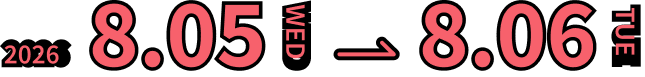
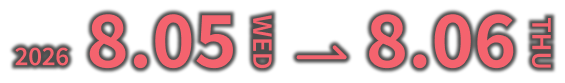
feat: add best paper award committee section and fix hero date typo
- Correct 8/6 day-of-week from TUE to THU on hero date banner (image + alt)
- Register 'Best Paper Award Committee' in chairTypeOrder so it renders between Steering Committees and Paper Chairs
- Render the new committee with feature-variant cards (same layout as Steering Committees)
- Refresh og-preview.png

diff --git a/src/pages/OrganizationPage.tsx b/src/pages/OrganizationPage.tsx
@@ -362,9 +362,13 @@ const OrganizationPage: React.FC<OrganizationPageProps> = ({ hidePeople = false 
 
 	const showPeople = !hidePeople;
 	const generalChairs = groupedMembers.find((group) => group.normalizedType === 'general chairs');
-	const featuredGroups = groupedMembers.filter((group) => ['steering committees'].includes(group.normalizedType));
+	const featuredGroups = groupedMembers.filter((group) =>
+		['steering committees', 'best paper award committee'].includes(group.normalizedType),
+	);
 	const remainingGroups = groupedMembers.filter(
-		(group) => group.normalizedType !== 'general chairs' && !['steering committees', 'program chairs'].includes(group.normalizedType),
+		(group) =>
+			group.normalizedType !== 'general chairs' &&
+			!['steering committees', 'best paper award committee', 'program chairs'].includes(group.normalizedType),
 	);
 
 	return (

diff --git a/src/components/home/HomeHeroIntro.tsx b/src/components/home/HomeHeroIntro.tsx
@@ -290,7 +290,7 @@ const HomeHeroIntro: React.FC<HomeHeroIntroProps> = ({
 						/>
 						<img
 							src={heroDateSrc}
-							alt='2026 8.05 WED to 8.06 TUE'
+							alt='2026 8.05 WED to 8.06 THU'
 							className='hero-intro__hero-asset hero-intro__hero-asset--date'
 							loading='eager'
 							decoding='async'

diff --git a/src/content.shared.ts b/src/content.shared.ts
@@ -9,6 +9,7 @@ export const CONFIG = {
 		chairTypeOrder: [
 			'General Chairs',
 			'Steering Committees',
+			'Best Paper Award Committee',
 			'Paper Chairs',
 			'Poster Chairs',
 			'Demo Chairs',
